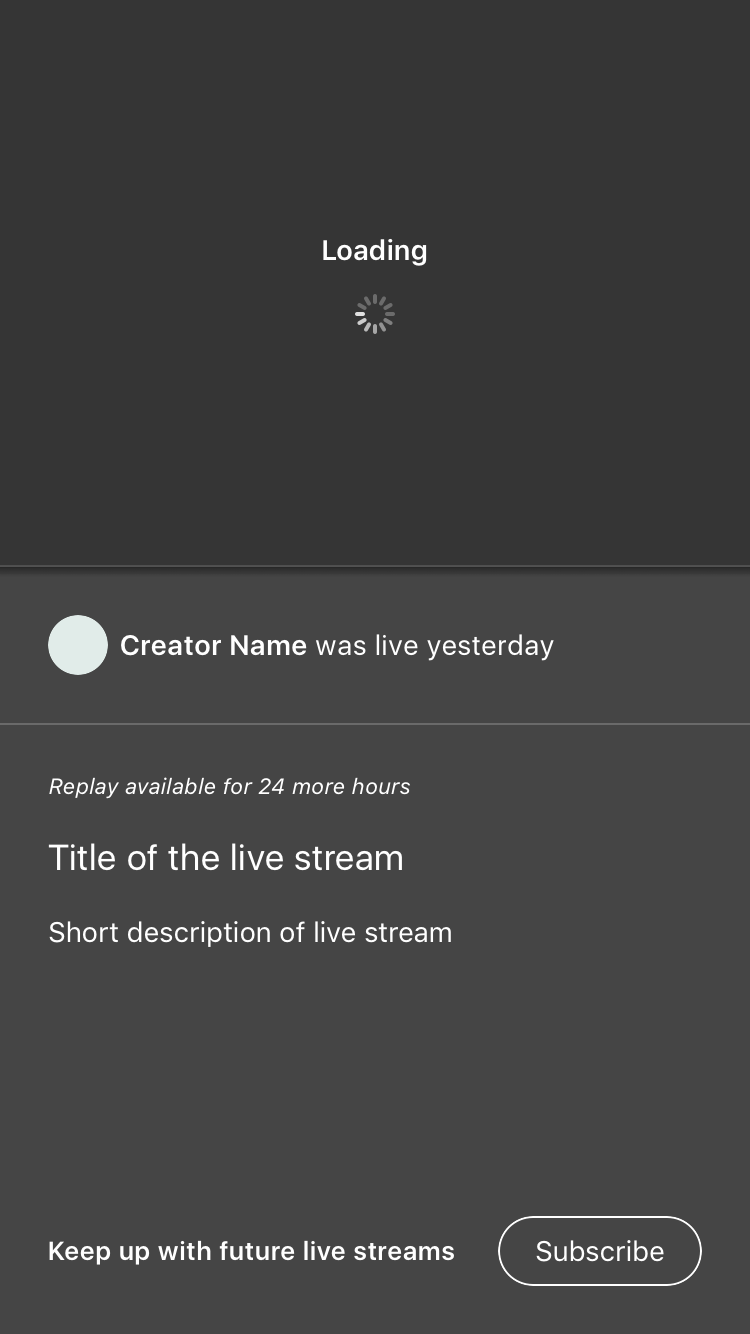
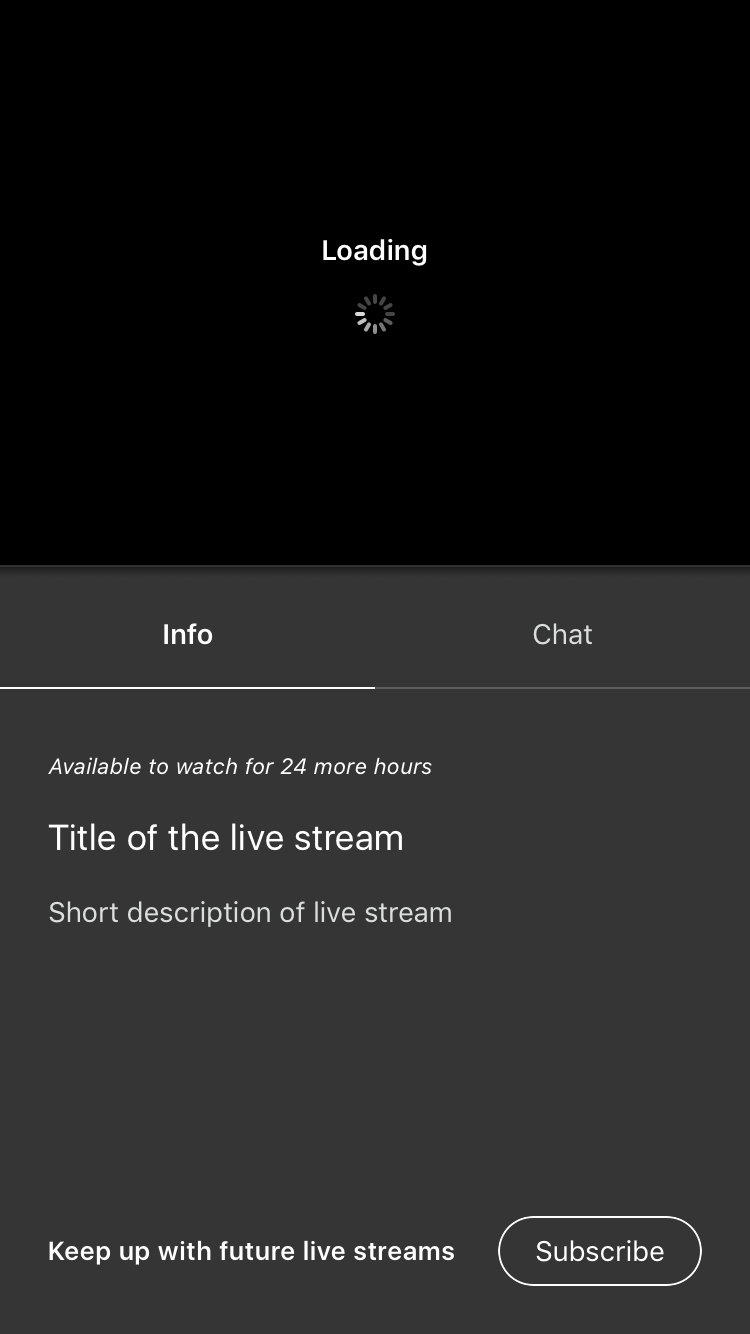
Fix presented from project screenshots

diff --git a/Kickstarter-iOS/Tests/Views/LiveStreamContainerViewControllerTests.swift b/Kickstarter-iOS/Tests/Views/LiveStreamContainerViewControllerTests.swift
@@ -18,32 +18,6 @@ internal final class LiveStreamContainerViewControllerTests: TestCase {
     UIView.setAnimationsEnabled(true)
     super.tearDown()
   }
-//  func testPresentedFromProject() {
-//    let liveStreamEvent = .template
-//      |> LiveStreamEvent.lens.hasReplay .~ true
-//      |> LiveStreamEvent.lens.liveNow .~ false
-//      |> LiveStreamEvent.lens.startDate .~ (MockDate().addingTimeInterval(-86_400)).date
-//      |> LiveStreamEvent.lens.replayUrl .~ "http://www.replay.com"
-//      |> LiveStreamEvent.lens.name .~ "Title of the live stream"
-//      |> LiveStreamEvent.lens.description .~ "Short description of live stream"
-//
-//    let liveStreamService = MockLiveStreamService(fetchEventResult: Result(liveStreamEvent))
-//
-//    withEnvironment(liveStreamService: liveStreamService) {
-//      let vc = LiveStreamContainerViewController.configuredWith(project: .template,
-//                                                                liveStreamEvent: liveStreamEvent,
-//                                                                refTag: .projectPage,
-//                                                                presentedFromProject: true)
-//
-//      let (parent, _) = traitControllers(device: .phone4_7inch, orientation: .portrait, child: vc)
-//      self.scheduler.advance()
-//
-//      vc.liveStreamViewControllerNumberOfPeopleWatchingChanged(controller: nil, numberOfPeople: 2_532)
-//
-//      FBSnapshotVerifyView(parent.view)
-//    }
-//  }
-//
 //  func testSubscribed() {
 //    let liveStreamEvent = .template
 //      |> LiveStreamEvent.lens.hasReplay .~ true
@@ -164,7 +138,6 @@ internal final class LiveStreamContainerViewControllerTests: TestCase {
   }
 
   func testPlaybackStates() {
-    self.recordMode = true
     let liveStreamEvent = .template
       |> LiveStreamEvent.lens.startDate .~ (MockDate().addingTimeInterval(-86_400)).date
       |> LiveStreamEvent.lens.liveNow .~ true
@@ -202,6 +175,32 @@ internal final class LiveStreamContainerViewControllerTests: TestCase {
           parent.view, identifier: "lang_\(lang)_state_\(stateIdentifier)"
         )
       }
+    }
+  }
+
+  func testPresentedFromProject() {
+    let liveStreamEvent = .template
+      |> LiveStreamEvent.lens.hasReplay .~ true
+      |> LiveStreamEvent.lens.liveNow .~ false
+      |> LiveStreamEvent.lens.startDate .~ (MockDate().addingTimeInterval(-86_400)).date
+      |> LiveStreamEvent.lens.replayUrl .~ "http://www.replay.com"
+      |> LiveStreamEvent.lens.name .~ "Title of the live stream"
+      |> LiveStreamEvent.lens.description .~ "Short description of live stream"
+
+    let liveStreamService = MockLiveStreamService(fetchEventResult: Result(liveStreamEvent))
+
+    withEnvironment(liveStreamService: liveStreamService) {
+      let vc = LiveStreamContainerViewController.configuredWith(project: .template,
+                                                                liveStreamEvent: liveStreamEvent,
+                                                                refTag: .projectPage,
+                                                                presentedFromProject: true)
+
+      let (parent, _) = traitControllers(device: .phone4_7inch, orientation: .portrait, child: vc)
+      self.scheduler.advance()
+
+      vc.liveStreamViewControllerNumberOfPeopleWatchingChanged(controller: nil, numberOfPeople: 2_532)
+
+      FBSnapshotVerifyView(parent.view)
     }
   }
 
